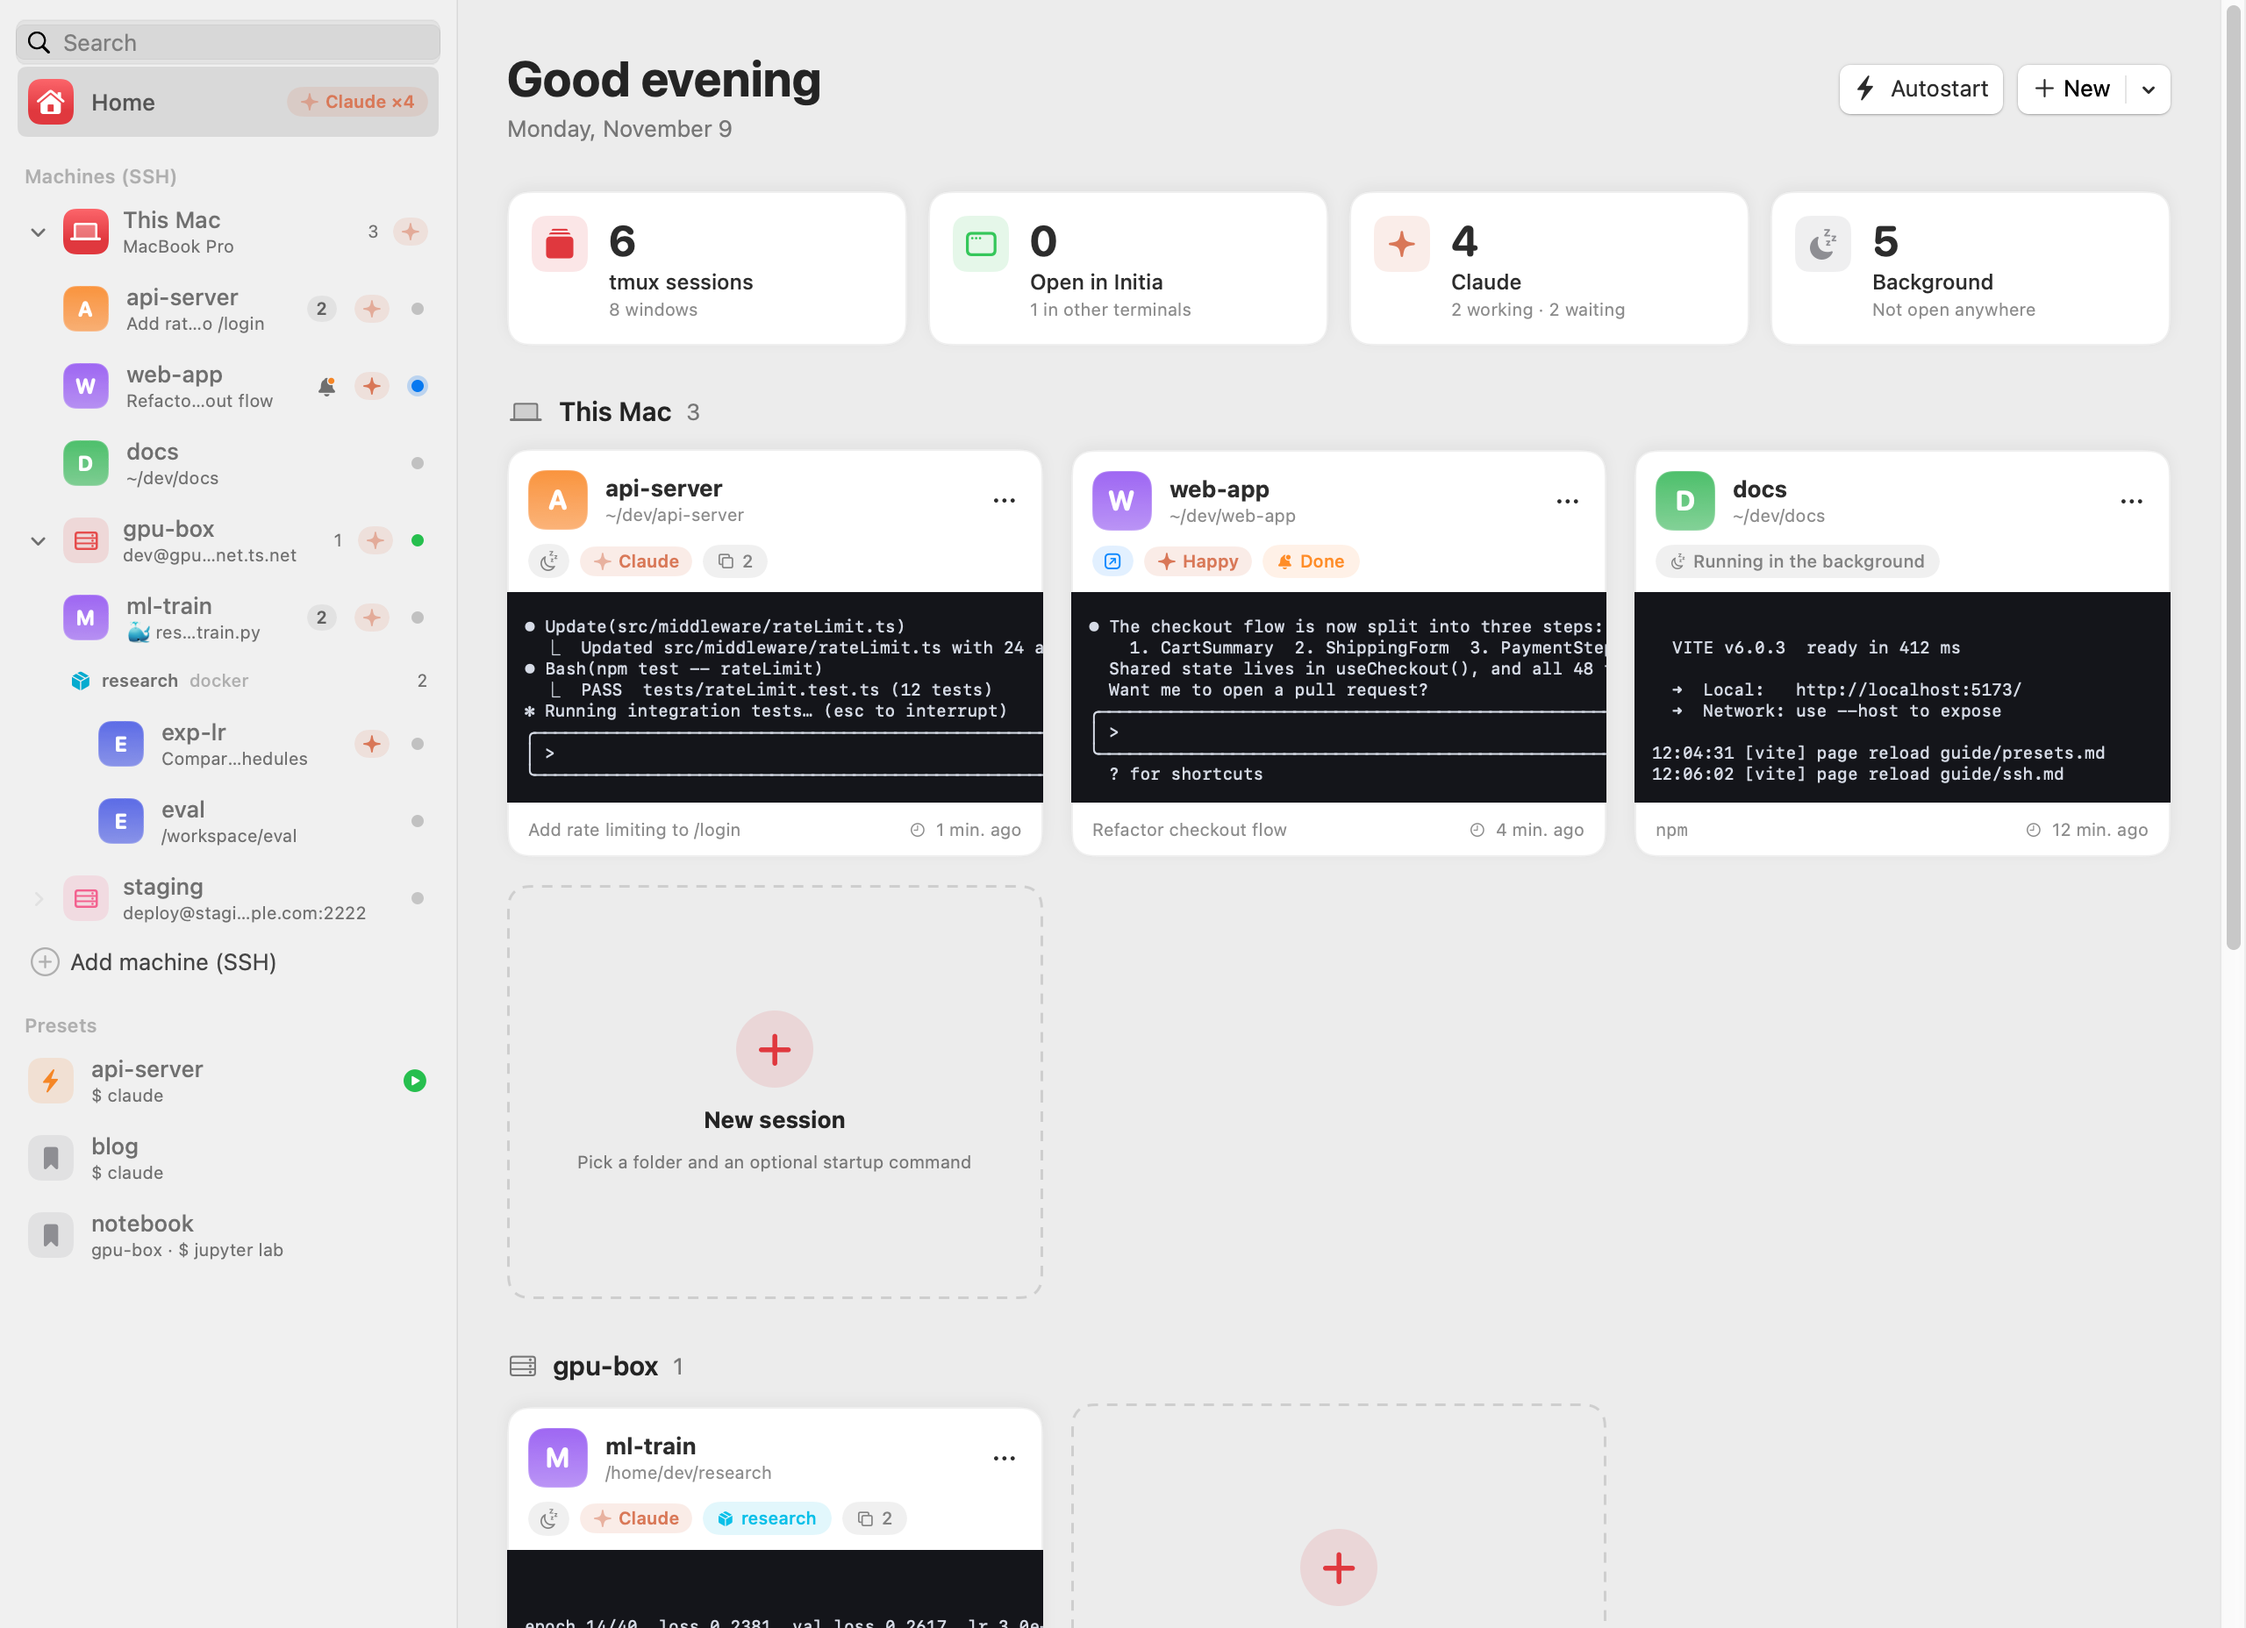
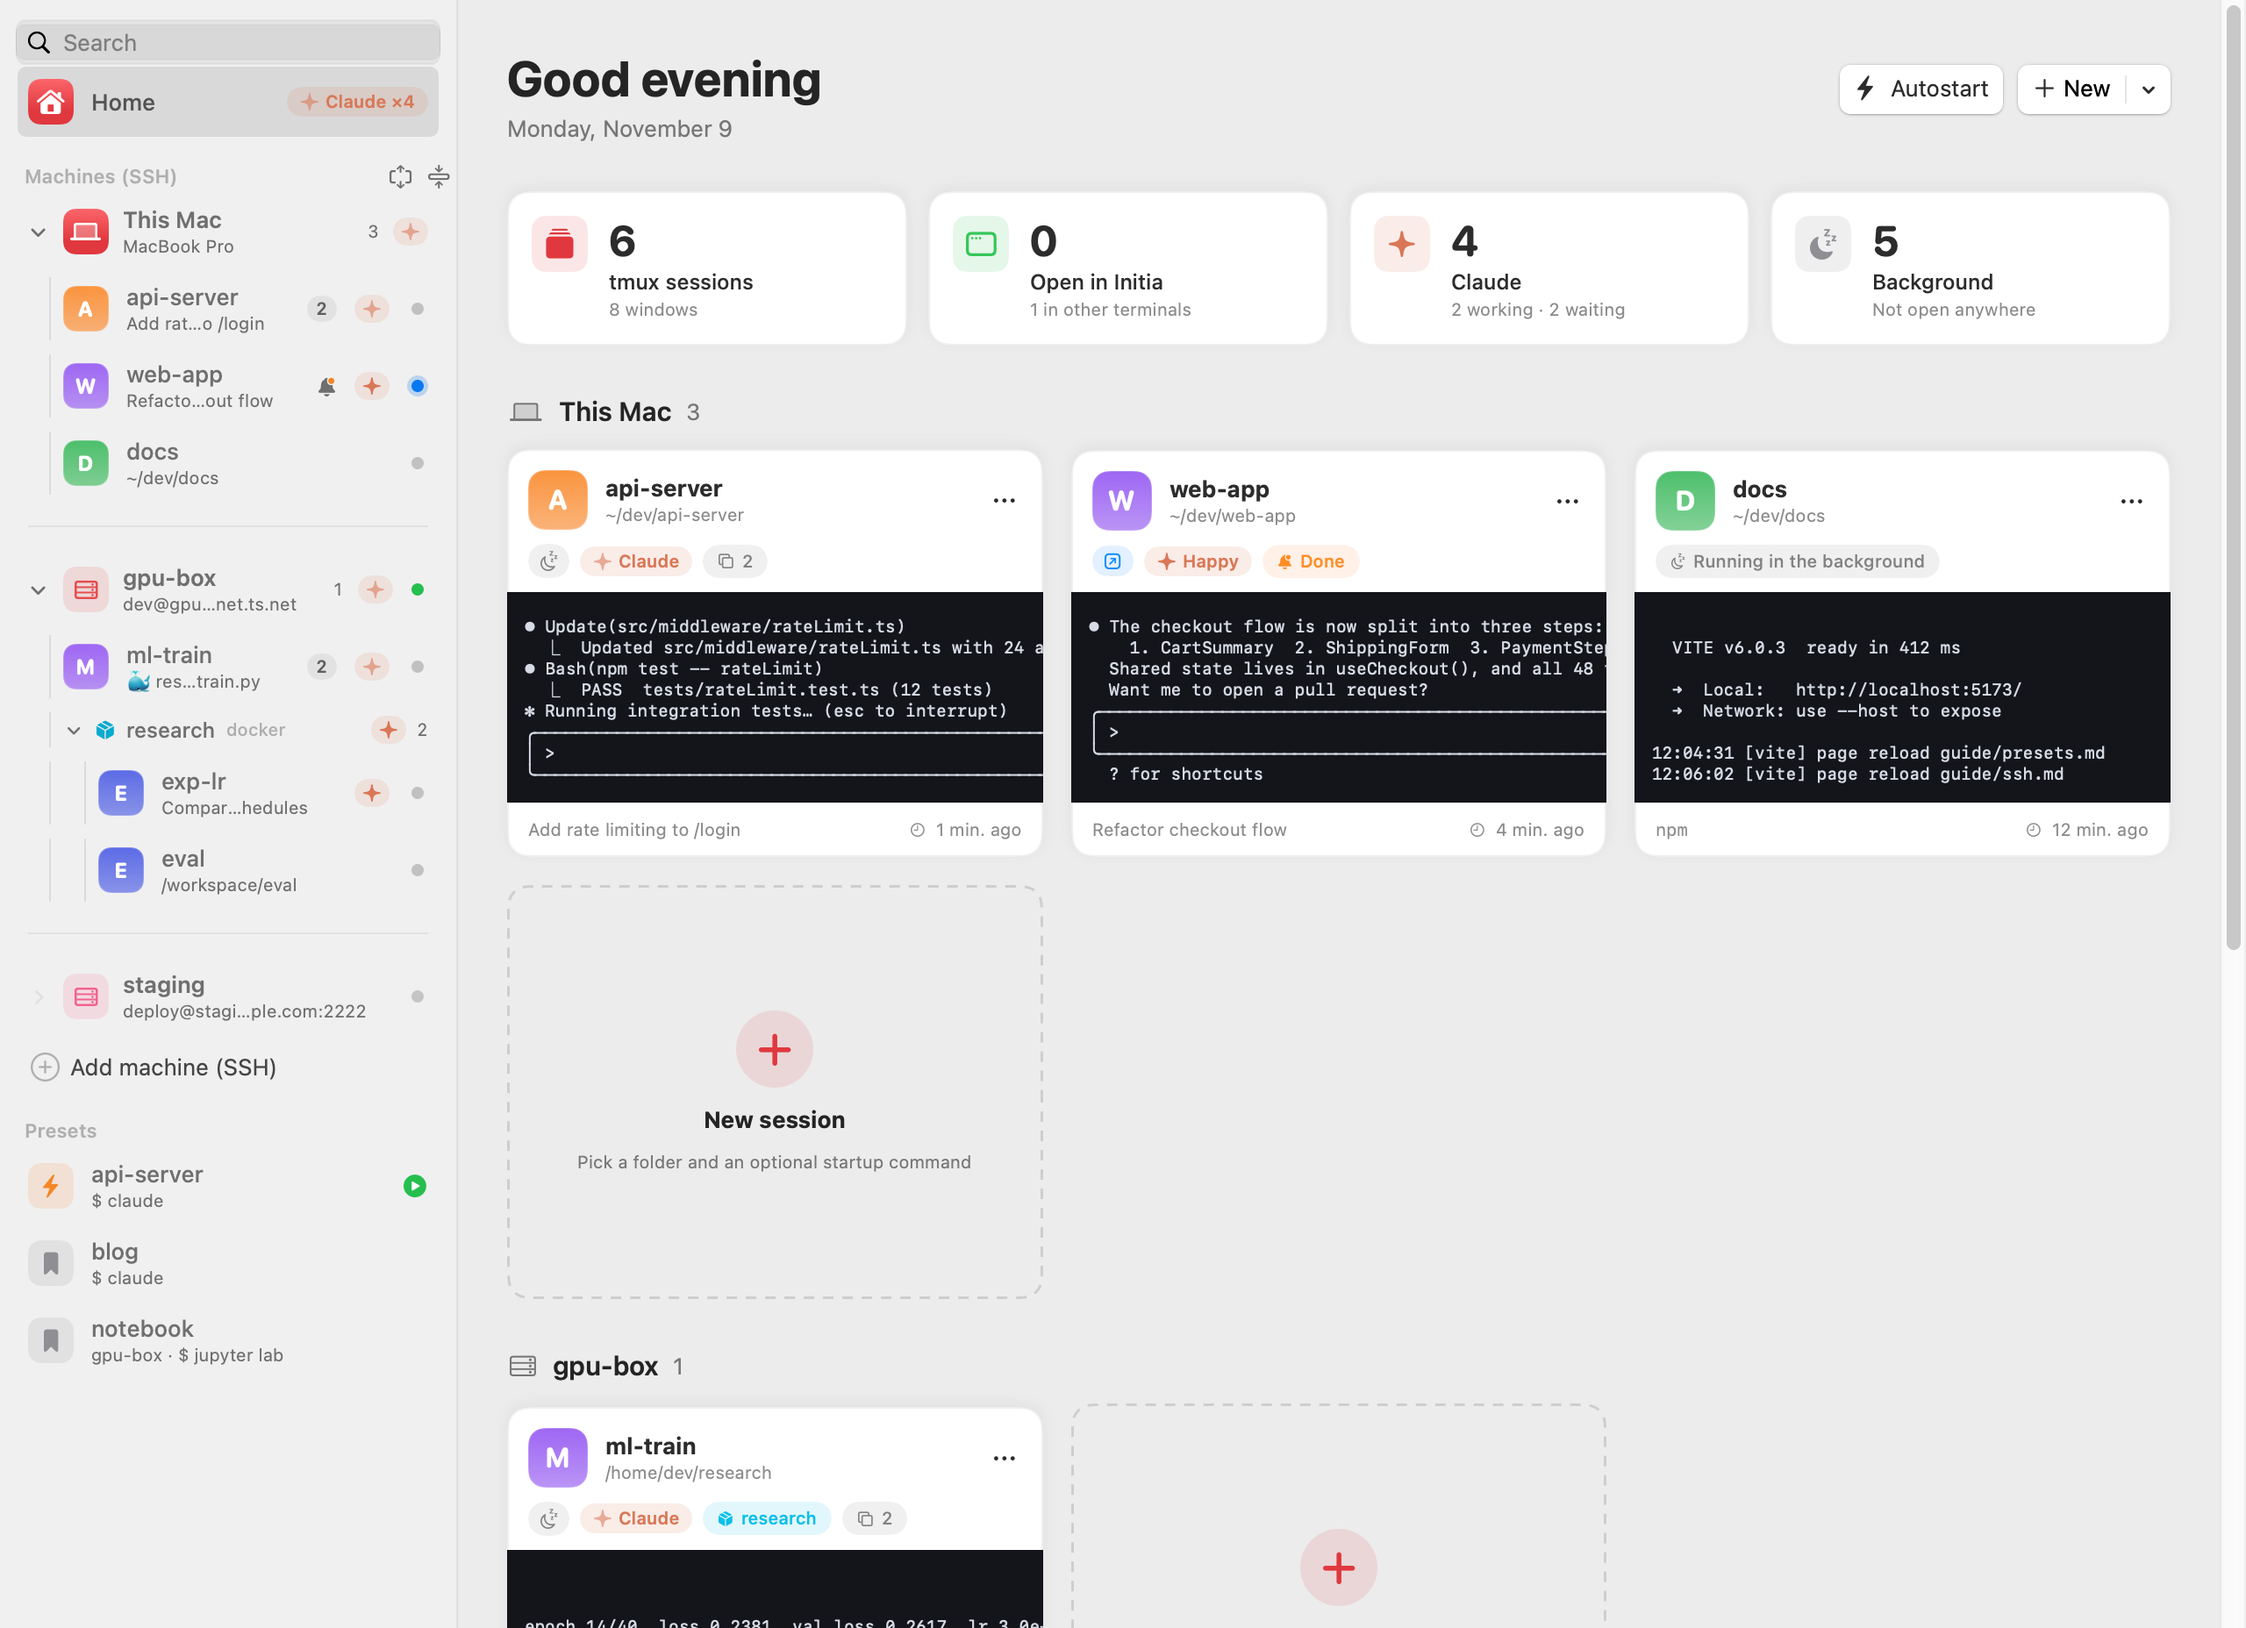
Initia 0.7.0-beta

Changed region(s): [[0.0, 0.3125, 0.125, 0.7812], [0.0312, 0.8125, 0.125, 0.8438]]

diff --git a/README.md b/README.md
@@ -46,6 +46,7 @@ Initia is the app I wanted for that:
 - **Home**: a start screen with a card for every session, live previews, and a summary of what's running
 - **Built-in terminal**: open any tmux session in a real terminal inside Initia, with a tab for each one. Plain terminals without tmux work too (⌘T)
 - **Clear close actions**: Close window (Ctrl-b d) keeps the session running, Quit Claude (/exit) ends only Claude, End tmux session ends it all
+- **Keyboard first**: hold ⌘ to see every shortcut, ⌘K to jump to any session, machine or command, ⌘1…⌘9 for tabs, ⌘= / ⌘- to zoom the terminal
 - **Claude Code aware**: see which sessions run Claude (or `happy claude`) and whether it is working or waiting, even inside a docker container. Get a notification when Claude finishes or hits its usage limit (with the reset time), and quit it cleanly with **Exit** (`/exit`, then end the session)
 - **Machines**: this Mac and your `~/.ssh/config` machines side by side in the sidebar. Connect (key or password) to see and open each machine's tmux sessions, and add or edit machines in the app. Initia keeps one SSH session per machine, so your server sees a single login
 - **Docker containers**: keep tmux on the server and work inside a container. A session or preset can name a container, and Initia runs `docker exec` into it for you (with your folder and startup command). Initia also finds the tmux sessions running *inside* each container and opens them with `docker exec -it <container> tmux attach`. Each machine page lists its running containers

diff --git a/CHANGELOG.md b/CHANGELOG.md
@@ -1,5 +1,21 @@
 # Changelog
 
+## 0.7.0-beta
+
+### New: keyboard and navigation
+
+- **Hold ⌘** to see every keyboard shortcut, with tab numbers shown on the tabs
+- **⌘K command palette**: search sessions (including those inside containers), machines, presets and commands, then press Enter
+- **Zoom the terminal** with ⌘= / ⌘- and reset with ⌘0
+- **Tabs**: ⌘1…⌘8 jump to a tab, ⌘9 to the last one, ⇧⌘] / ⇧⌘[ for next/previous; ⌘W closes the current tab like Ctrl-b d (the session keeps running)
+- ⇧⌘H goes Home, ⌃⌘S shows or hides the sidebar, and the new Go menu lists all of these
+
+### Sidebar
+
+- Machines are clearly grouped: a divider between machines, bold machine names, and guide lines that show what sits under each machine and container
+- **Containers collapse** like machines (collapsed by default) and still show Claude and attention badges when collapsed
+- **Expand all / Collapse all** buttons next to "Machines (SSH)"; what you expand or collapse is remembered
+
 ## 0.6.9-beta
 
 ### Changes
